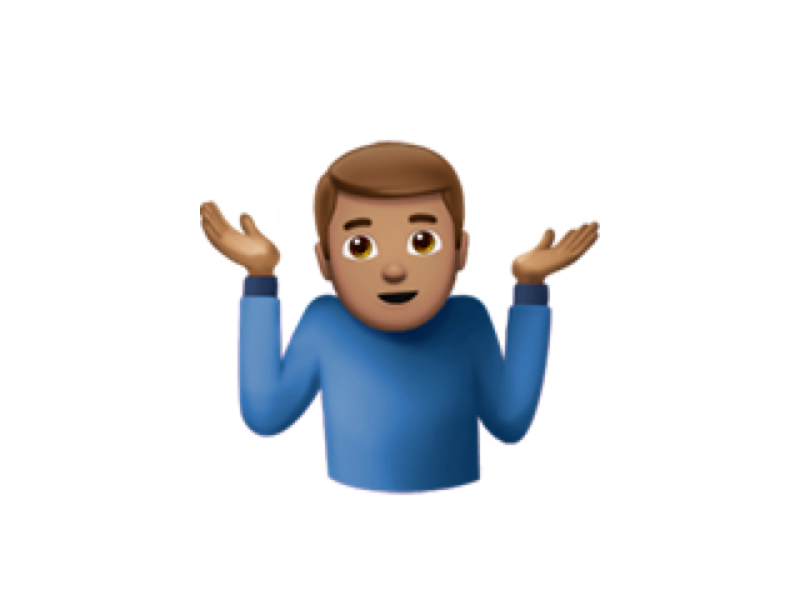
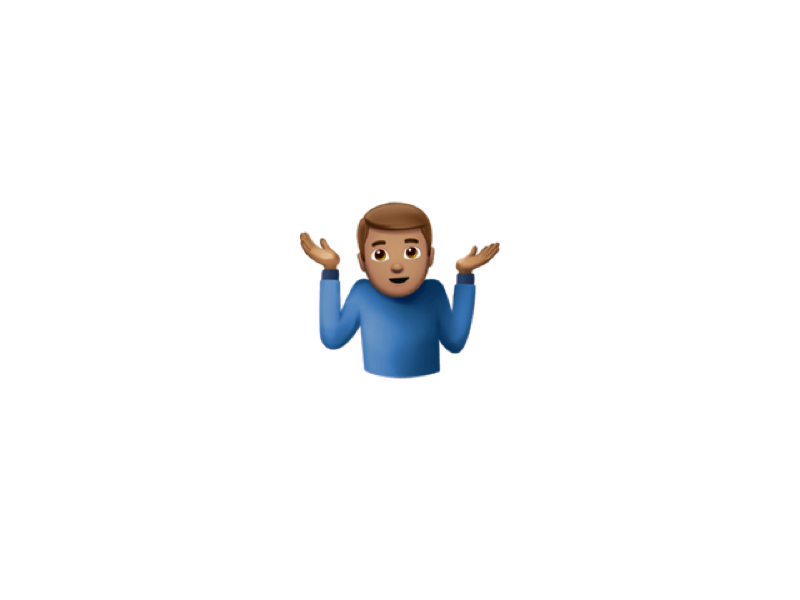
new image for why not both

Changed region(s): [[0.25, 0.21, 0.75, 0.84]]

diff --git a/_posts/2019-05-11-why-not-both.md b/_posts/2019-05-11-why-not-both.md
@@ -2,8 +2,8 @@
 layout: post
 title: "Why Not Both?"
 bgImage: /img/why-not-both.jpg
-bgPosition: 100% 50%
-bgSize: 200px 150px
+bgPosition: 100% 45%
+bgSize: 400px 300px
 bgColor: '#fff'
 style: light
 ---
